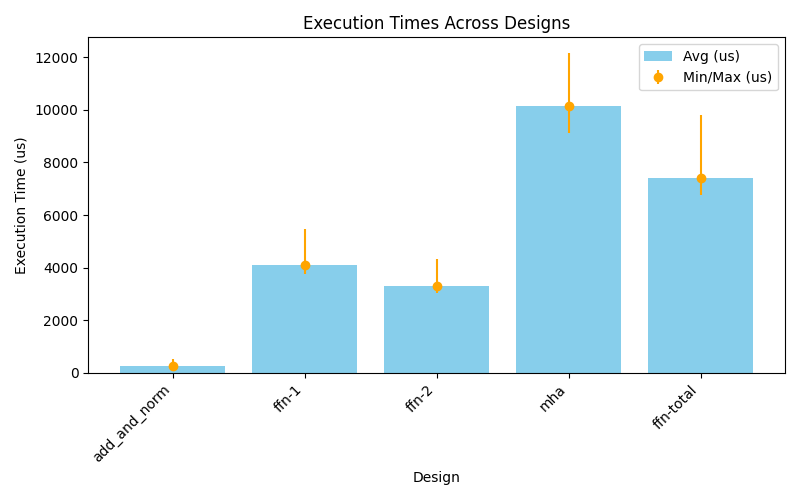
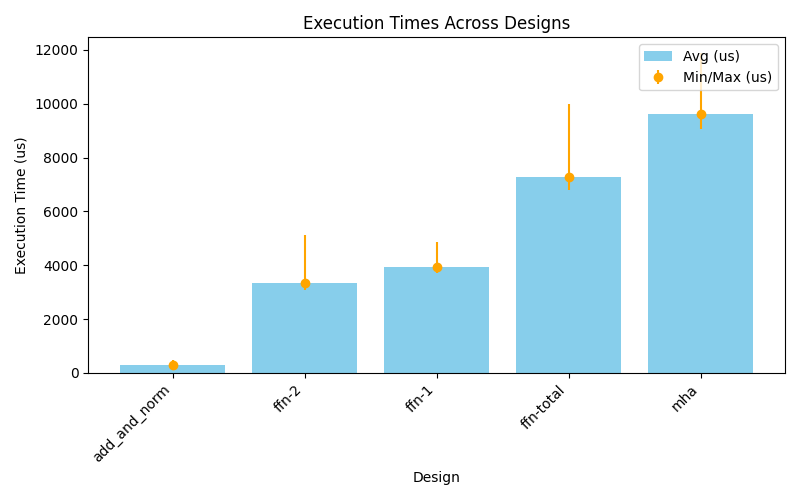
Updated format of execution times plot

diff --git a/programming_examples/ml/transformer/scripts/run_analysis.py b/programming_examples/ml/transformer/scripts/run_analysis.py
@@ -532,6 +532,9 @@ def analyse_execution_times(csv_file, output_dir):
             min_times.append(combined_min)
             max_times.append(combined_max)
 
+    # Sort the data by avg_times (lowest to highest)
+    sorted_data = sorted(zip(avg_times, min_times, max_times, designs))
+    avg_times, min_times, max_times, designs = map(list, zip(*sorted_data))
     fig, ax = plt.subplots(figsize=(max(8, len(designs) * 1.2), 5))
     x = range(len(designs))
     ax.bar(x, avg_times, color='skyblue', label='Avg (us)')
